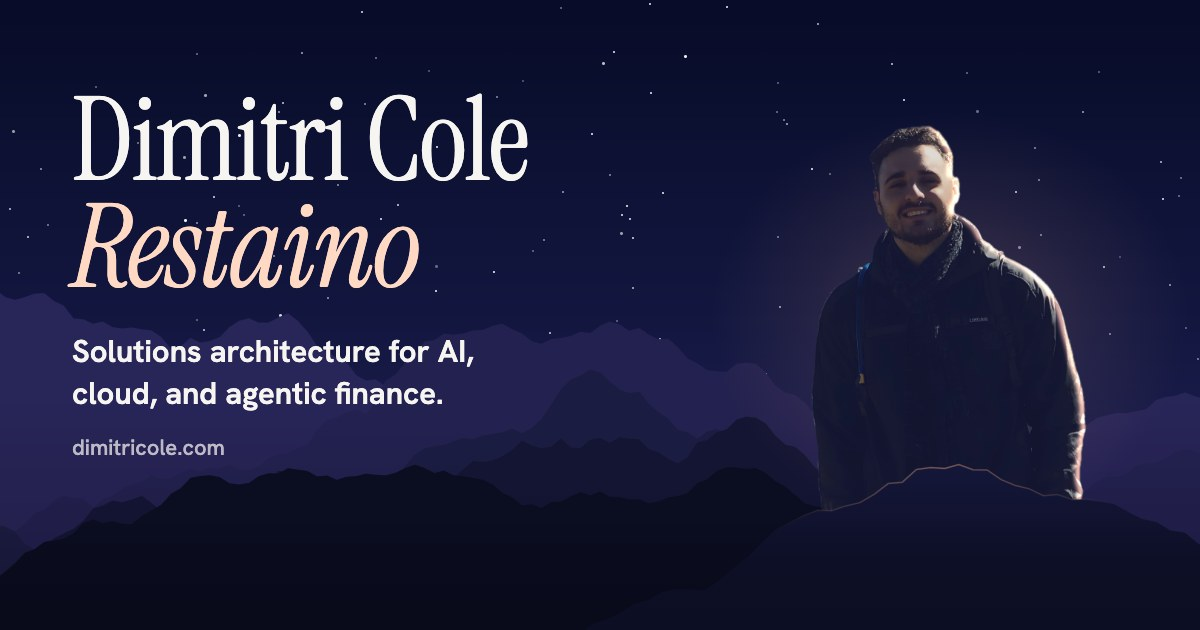
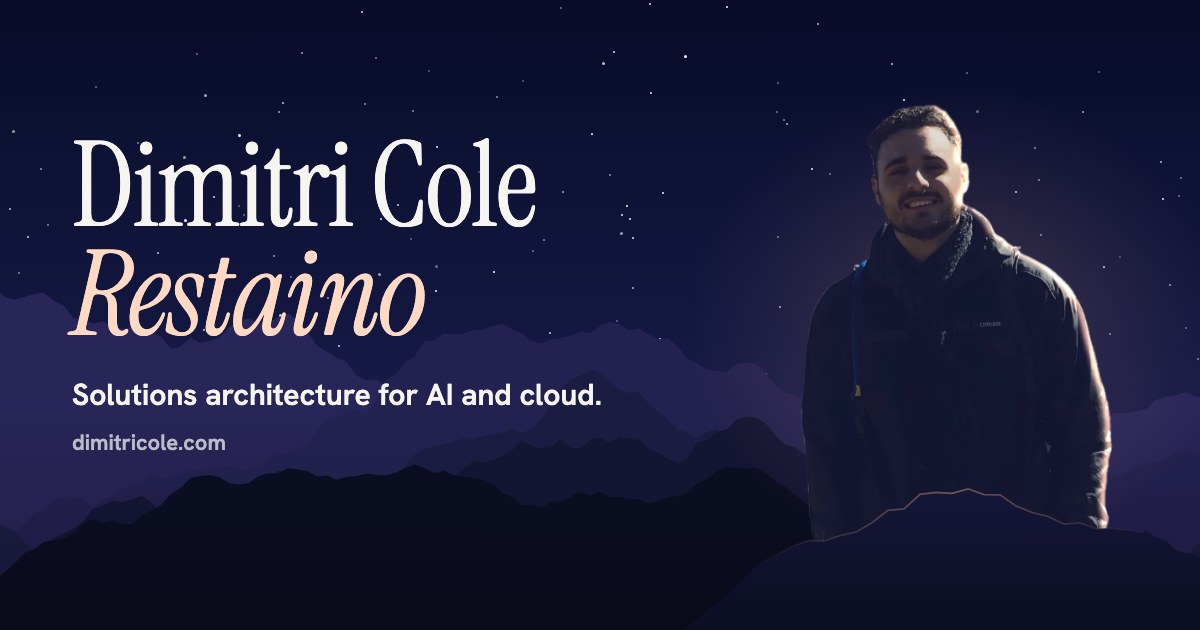
Lead with AI and cloud, and move the agent sketch into Ripple
The tagline is now "Solutions architecture for AI and cloud", and the
summit's three fields are solutions architecture, AI and cloud. The agent
sketch moves from the summit into the Ripple camp, and the Ripple, AWS,
skills and speaking lists put the AI and cloud work first. The share card
is remade with the new tagline. The guide follows: its tour, the answers
that pointed at the summit's sketch, and an "Any cloud work?" chip in
place of agentic finance. The hero gains a "Get in touch" button, and on
phones both buttons fit on one line so the photo stays above the dock.

Claude-Session: https://claude.ai/code/session_01Q1VdPJLvWN5t1BbNmWPfwr

diff --git a/assets/js/site.js b/assets/js/site.js
@@ -319,14 +319,14 @@
 	var mode = 'guide', collapsed = false, step = -1;
 
 	var TOUR = [
-		{ at: '#top', short: 'Welcome, traveler. Shall we descend together?', text: "Welcome, traveler. You stand at the summit of Dimitri's trail, where the work is solutions architecture for AI, cloud, and agentic finance. The path runs down through every camp from here. Shall we descend together?" },
-		{ at: '#summit', short: 'The summit: what Dimitri works on now.', text: 'The summit is what Dimitri works on now. Just below waits a small sketch: an agent reads a ledger, then asks before it moves any money.' },
-		{ at: '#camp3', short: 'Camp 3: Ripple, from Aug 2025 to now.', text: "Camp 3 is Ripple, since Aug 2025. Dimitri leads the North America Customer Solutions team as a player-coach, and builds a lot: an AI RFP workflow on Claude, the team's demo tools with Claude Code, and internal MCP servers for XRPL." },
+		{ at: '#top', short: 'Welcome, traveler. Shall we descend together?', text: "Welcome, traveler. You stand at the summit of Dimitri's trail, where the work is solutions architecture for AI and cloud. The path runs down through every camp from here. Shall we descend together?" },
+		{ at: '#summit', short: 'The summit: what Dimitri works on now.', text: 'The summit is what Dimitri works on now: solutions architecture, AI, and cloud.' },
+		{ at: '#camp3', short: 'Camp 3: Ripple, from Aug 2025 to now.', text: "Camp 3 is Ripple, since Aug 2025. Dimitri leads the North America Customer Solutions team as a player-coach, and builds a lot: an AI RFP workflow on Claude, the team's demo tools with Claude Code, and internal MCP servers for XRPL. Below that waits a small sketch: an agent reads a ledger, then asks before it moves any money." },
 		{ at: '#camp2', short: 'Camp 2: five years as an AWS Solutions Architect.', text: 'Camp 2 is five years at AWS as a Solutions Architect, advising ~20 enterprise accounts and getting into generative AI early, including the AWS architecture for an AI layer in a healthcare platform.' },
 		{ at: '#base', short: 'Camp 1: Travelers, 2016 to 2020, with Quinnipiac below.', text: 'Camp 1 is Travelers, 2016 to 2020, where Dimitri led seven developers plus an Accenture delivery team. Quinnipiac, 2010 to 2015, waits just below.' },
 		{ at: '#studio', short: 'The trailhead: Snowy Ghost, Dimitri\'s own company.', text: "Back at the trailhead: Snowy Ghost, the company Dimitri owns and runs alongside the day job. Glitch, its party game, is live on the App Store, and Ovenlight is coming soon." },
-		{ at: '#talks', short: 'Writing and talks.', text: 'Next, writing and talks, including an AWS post on generative AI workflows and three XRPL Apex talks.' },
-		{ at: '#skills', short: 'The skills Dimitri gathered along the way.', text: 'The skills Dimitri gathered along the way, from AWS architecture and Claude to MCP, Python, and XRPL.' },
+		{ at: '#talks', short: 'Writing and talks.', text: 'Next, writing and talks, including an AWS post on generative AI workflows and live demos at AWS re:Invent.' },
+		{ at: '#skills', short: 'The skills Dimitri gathered along the way.', text: 'The skills Dimitri gathered along the way, from AWS architecture and Claude to MCP and Python.' },
 		{ at: '#mountains', short: 'Where Dimitri goes when off the clock.', text: 'And this is where Dimitri spends time off the clock.' },
 		{ at: '#contact', short: 'End of the trail. Email or LinkedIn is fastest.', text: "That's the whole trail. To talk with Dimitri, email or LinkedIn is fastest. I'll be here if you have questions." }
 	];
@@ -517,8 +517,8 @@
 	var QA = [
 		{"id": "greeting", "q": "Hello", "keys": ["hello", "hey", "hi", "hiya", "howdy", "greetings", "good morning", "good afternoon", "good evening", "yo", "sup", "hola", "whats up", "anyone there", "anybody there", "what s up"], "a": "Welcome, traveler. I'm the guide on this trail, and every answer here was written in advance. Ask about Dimitri's work at Ripple or AWS, the architecture and AI projects, the talks, or the mountains.", "go": [["Start the descent", "#summit"]]},
 		{"id": "guide-ai", "q": "Are you an AI?", "keys": ["are you an ai", "this an ai", "it an ai", "u an ai", "or an ai", "with an ai", "by an ai", "there an ai", "from an ai", "are you ai", "u ai", "chatgpt", "chat gpt", "gpt", "openai", "llm powered", "bot", "robot", "chatbot", "who are you", "who is this", "real person", "scripted", "how does this work", "how do you work", "powered by", "language model", "are you claude", "is this claude", "is this ai", "guide", "sentient", "talking to a", "a bot", "this claude", "you claude", "this chat", "chat work", "are you human", "you human", "real human", "talking to a human", "typing", "someone typing", "is someone", "live person"], "a": "No AI model runs here. The guide is scripted: every answer was written in advance and matched to your question by keywords, and most answers link to the part of the page that covers them.", "go": [["See Dimitri's AI work", "#summit"]]},
-		{"id": "agent-demo", "q": "Is the agent demo real?", "keys": ["illustration", "sketch", "testnet", "test net", "treasury", "treasury wallet", "wallet", "trust line", "real ledger", "fake", "made-up", "made up", "mock", "simulated", "is it real", "is that real", "is this real", "animation", "chat window", "agent demo", "demo real", "is the demo real", "mainnet", "main net", "payment demo", "is it live", "live on"], "a": "The agent session at the summit is an illustration with made-up testnet data, not Dimitri's actual tools. Nothing in it touches a real ledger, and a person approves the payment before anything is signed.", "go": [["Show me the sketch", "#agents"]]},
-		{"id": "agentic", "q": "What's agentic finance?", "chip": 5, "keys": ["agentic", "agent", "agents", "mcp", "model context protocol", "mcp server", "on-chain", "onchain", "on chain", "execute transaction", "transactions", "agentic finance", "agentic payments", "ai agents", "autonomous", "mcp ", "model context protocol"], "a": "AI agents that can read a ledger and act on it. Dimitri builds internal MCP servers that let an agent research XRPL data and execute on-chain transactions. There's a short illustration at the summit, with made-up testnet data.", "go": [["Show me the sketch", "#agents"], ["Show me the summit", "#summit"]]},
+		{"id": "agent-demo", "q": "Is the agent demo real?", "keys": ["illustration", "sketch", "testnet", "test net", "treasury", "treasury wallet", "wallet", "trust line", "real ledger", "fake", "made-up", "made up", "mock", "simulated", "is it real", "is that real", "is this real", "animation", "chat window", "agent demo", "demo real", "is the demo real", "mainnet", "main net", "payment demo", "is it live", "live on"], "a": "The agent session in the Ripple camp is an illustration with made-up testnet data, not Dimitri's actual tools. Nothing in it touches a real ledger, and a person approves the payment before anything is signed.", "go": [["Show me the sketch", "#agents"]]},
+		{"id": "agentic", "q": "What's agentic finance?", "keys": ["agentic", "agent", "agents", "mcp", "model context protocol", "mcp server", "on-chain", "onchain", "on chain", "execute transaction", "transactions", "agentic finance", "agentic payments", "ai agents", "autonomous", "mcp ", "model context protocol"], "a": "AI agents that can read a ledger and act on it. Dimitri builds internal MCP servers that let an agent research XRPL data and execute on-chain transactions. There's a short illustration in the Ripple camp, with made-up testnet data.", "go": [["Show me the sketch", "#agents"], ["Show me Ripple", "#camp3"]]},
 		{"id": "feedback", "q": "Did Dimitri give feedback to AWS service teams?", "keys": ["feedback", "service team", "service teams", "product team", "product feedback", "features", "feature request", "roadmap", "influence", "influence claude", "feedback on claude"], "a": "At AWS, Dimitri fed customer and partner feedback to AWS service teams on 10+ features, Claude on Amazon Bedrock among them.", "go": [["Show me AWS", "#camp2"]]},
 		{"id": "claude", "q": "How does Dimitri use Claude?", "chip": 4, "keys": ["claude", "cluade", "anthropic", "anthropics", "antropic", "anthopic", "claude code", "claude api", "bedrock", "opus", "sonnet", "haiku", "claud "], "a": "Dimitri designed an AI RFP workflow with Claude on Amazon Bedrock and built the Ripple team's enablement stack with Claude Code, and this site was built with Claude Code too. At AWS, Dimitri fed customer and partner feedback to AWS service teams on 10+ features, Claude on Amazon Bedrock among them.", "go": [["Show me Ripple", "#camp3"], ["Show me AWS", "#camp2"]]},
 		{"id": "rfp", "q": "What is the AI RFP workflow?", "keys": ["rfp", "rfps", "request for proposal", "proposal", "proposals", "step functions", "step function", "stepfunctions", "workflow", "orchestrat", "questionnaire"], "a": "Dimitri designed an AI RFP workflow at Ripple with Claude on Amazon Bedrock and AWS Step Functions, used on 10+ RFPs. An eval harness scores every run against a principle-based rubric with golden answers built in, and a human review-and-fix loop follows.", "go": [["Show me Ripple", "#camp3"]]},
@@ -533,12 +533,12 @@
 		{"id": "fine-tuning", "q": "Has Dimitri worked on fine-tuning?", "keys": ["fine-tun", "fine tun", "finetun", "fine-tuning", "training data", "de-identified", "deidentified", "mental health", "therapy", "therapist", "companion", "custom model", "train a model", "trained a model", "model training", "mental", "training a model", "train a", "train an", "trained an"], "a": "At AWS, Dimitri architected and scoped LLM fine-tuning on de-identified data for a mental health platform, ahead of the launch of its AI mental health companion.", "go": [["Show me AWS", "#camp2"]]},
 		{"id": "hackathon", "q": "Has Dimitri won a hackathon?", "keys": ["hackathon", "hackathons", "hack-a-thon", "hackaton", "ai heroes", "heroes", "won", "win", "winner", "first place", "award", "awards", "prize", "competition", "inbox", "innovation club"], "a": "Dimitri placed first in AWS's Industries AI Heroes hackathon, representing Healthcare and Life Sciences, with a physician-inbox organizer and a doctor-facing chatbot. At Travelers, Dimitri organized an innovation club, developer workshops, and hackathons reaching 1,000+ participants.", "go": [["Show me AWS", "#camp2"], ["Show me Travelers", "#base"]]},
 		{"id": "workshops", "q": "Does Dimitri teach or run workshops?", "keys": ["workshop", "workshops", "teach", "teaching", "developer advocacy", "devrel", "dev rel", "developer relations", "advocate", "reference implementation", "mentoring", "instruct", "classes"], "a": "Dimitri delivered 40+ developer workshops, 100+ customer demos, and reference implementations at AWS, and at Ripple runs AI training for 20+ reps. Teaching developers goes back to the Travelers days, with workshops and hackathons reaching 1,000+ participants.", "go": [["Show me AWS", "#camp2"], ["Show me the talks", "#talks"]]},
-		{"id": "migrations", "q": "What migrations has Dimitri worked on?", "keys": ["migration", "migrat", "modernization", "moderniz", "legacy", "lift and shift", "move to the cloud", "cloud migration", "event-driven", "event driven"], "a": "At AWS, Dimitri advised ~20 enterprise accounts in financial services and healthcare and drove 30+ migrations, several with SI partner Caylent. Earlier, at Travelers, Dimitri led a team migrating legacy financial systems to API and event-driven architectures.", "go": [["Show me AWS", "#camp2"], ["Show me Travelers", "#base"]]},
+		{"id": "migrations", "q": "What migrations has Dimitri worked on?", "chip": 5, "chipText": "Any cloud work?", "keys": ["migration", "migrat", "modernization", "moderniz", "legacy", "lift and shift", "move to the cloud", "cloud migration", "event-driven", "event driven"], "a": "At AWS, Dimitri advised ~20 enterprise accounts in financial services and healthcare and drove 30+ migrations, several with SI partner Caylent. Earlier, at Travelers, Dimitri led a team migrating legacy financial systems to API and event-driven architectures.", "go": [["Show me AWS", "#camp2"], ["Show me Travelers", "#base"]]},
 		{"id": "ripple", "q": "What does Dimitri do at Ripple?", "keys": ["ripple", "ripples", "rippel", "customer solutions", "north america", "pre-sales", "presales", "pre sales", "sales engineer", "do sales", "in sales", "sales role"], "a": "Since Aug 2025, Dimitri has been a Customer Solutions Director at Ripple, leading the North America Customer Solutions team as a player-coach and advising 20+ banks on digital-asset strategy, custody, and key management. Dimitri also builds much of what the team demos and teaches with.", "go": [["Show me Ripple", "#camp3"]]},
 		{"id": "aws", "q": "What did Dimitri do at AWS?", "keys": ["aws", "amazon", "amazon web services", "solutions architect", "solution architect", "senior sa", "sa", "enterprise accounts", "financial services", "cloud", "at aws", "at amazon", "aws experience"], "a": "Five years at AWS, Sep 2020 to Aug 2025, most recently as a Senior Solutions Architect in New York. Dimitri advised ~20 enterprise accounts in financial services and healthcare, drove 30+ migrations, and was pulled into generative AI early by enterprise accounts and ISV partners.", "go": [["Show me AWS", "#camp2"]]},
 		{"id": "travelers", "q": "What did Dimitri do at Travelers?", "keys": ["travelers", "travellers", "traveler", "insurance", "hartford", "connecticut", "accenture", "tech lead", "first job", "early career", "before aws"], "a": "Travelers, Feb 2016 to Aug 2020, as a Tech Lead and Developer in Hartford, CT. Dimitri led seven developers plus an Accenture delivery team migrating legacy financial systems to API and event-driven architectures, including a partner-integration platform handling ~70% of transaction volume.", "go": [["Show me Travelers", "#base"]]},
 		{"id": "education", "q": "Where did Dimitri study?", "keys": ["study", "studied", "school", "college", "university", "universities", "mba", "degree", "degrees", "education", "educated", "graduate", "grad", "quinnipiac", "quinnipac", "quinipiac", "bachelor", "major", "entrepreneurship", "abroad", "masters", "master s"], "a": "Quinnipiac University, 2015: an MBA and a BS in Entrepreneurship and Small Business Management, through a competitively selected 4+1 BS+MBA program, with international coursework in France, Hungary, Italy, and Switzerland.", "go": [["Show me education", "#quinnipiac"]]},
-		{"id": "talks", "q": "Has Dimitri given talks?", "chip": 7, "chipText": "Any talks or writing?", "keys": ["talk", "talks", "speak", "speaker", "speaking", "spoke", "conference", "conferences", "keynote", "presentation", "podcast", "podcasts", "youtube", "you tube", "video", "videos", "watch", "apex", "reinvent", "re invent", "builders fair", "global summit", "block stars", "blockstars", "panel", "david schwartz", "schwartz", "events", "xrpl apex"], "a": "Dimitri spoke at XRPL Apex in 2023, 2024, and 2025, all on YouTube, and at the InterSystems Global Summit from 2022 to 2025, and gave live demos at the AWS re:Invent Builders Fair in 2021 and 2022. There's also the Block Stars podcast with David Schwartz, Ripple's CTO Emeritus. On the writing side, there are three AWS blog posts from 2024, including one on orchestrating generative AI workflows with Amazon Bedrock and AWS Step Functions.", "go": [["Show me the talks", "#talks"]]},
+		{"id": "talks", "q": "Has Dimitri given talks?", "chip": 7, "chipText": "Any talks or writing?", "keys": ["talk", "talks", "speak", "speaker", "speaking", "spoke", "conference", "conferences", "keynote", "presentation", "podcast", "podcasts", "youtube", "you tube", "video", "videos", "watch", "apex", "reinvent", "re invent", "builders fair", "global summit", "block stars", "blockstars", "panel", "david schwartz", "schwartz", "events", "xrpl apex"], "a": "Dimitri gave live demos at the AWS re:Invent Builders Fair in 2021 and 2022, spoke at the InterSystems Global Summit from 2022 to 2025. Dimitri's XRPL Apex talks from 2023, 2024, and 2025 are on YouTube. There's also the Block Stars podcast with David Schwartz, Ripple's CTO Emeritus. On the writing side, there are three AWS blog posts from 2024, including one on orchestrating generative AI workflows with Amazon Bedrock and AWS Step Functions.", "go": [["Show me the talks", "#talks"]]},
 		{"id": "writing", "q": "Has Dimitri published anything?", "keys": ["publish", "publication", "blog", "blogs", "article", "articles", "writing", "written", "write", "wrote", "author", "authored", "post", "posts", "paper", "papers", "content", "reading", "something to read"], "a": "Three posts on AWS blogs in 2024: orchestrating generative AI workflows with Amazon Bedrock and AWS Step Functions (Machine Learning Blog), InterSystems IRIS Cloud SQL and IntegratedML (Partner Network Blog), and application-consistent Amazon EBS Snapshots for InterSystems IRIS (Storage Blog).", "go": [["Show me the writing", "#talks"]]},
 		{"id": "certs", "q": "What certifications does Dimitri hold?", "keys": ["certif", "certs", "cert", "certificate", "credential", "credentials", "professional", "scrum", "safe", "agile", "sa pro", "exam"], "a": "AWS Solutions Architect - Professional, and SAFe 4.0 Certified Scrum Master.", "go": [["Show me the skills", "#skills"]]},
 		{"id": "languages", "q": "What languages and stack does Dimitri use?", "keys": ["stack", "serverless", "tech stack", "programming", "program", "coding", "code", "coder", "language", "languages", "python", "javascript", "typescript", "java", "react", "nodejs", "csharp", "api", "apis", "webhook", "websocket", "sdk", "sdks", "hands-on", "hands on", "technical", "engineer", "c", "c sharp", "rest api", "node js"], "a": "Dimitri works in JavaScript and TypeScript (React, Node.js), Python, and C#, with REST APIs, webhooks, WebSockets, and SDKs, and architects on AWS with Step Functions, serverless, and event-driven designs.", "go": [["Show me the skills", "#skills"]]},
@@ -558,7 +558,7 @@
 		{"id": "architecture", "q": "What architecture work has Dimitri done?", "chip": 2, "keys": ["architect", "ai architect ", "ai solutions architect", "enterprise architecture", "solution architecture", "solutions architecture", "system design", "systems design", "reference architecture", "cloud architecture"], "a": "Dimitri has worked in solutions architecture since 2020. At AWS, Dimitri advised ~20 enterprise accounts in financial services and healthcare, drove 30+ migrations, and designed the AWS architecture for the multi-provider AI layer in InterSystems' IntelliCare. At Ripple, Dimitri leads a team of pre-sales Solutions Architects as a player-coach, advising 20+ banks.", "go": [["Show me AWS", "#camp2"], ["Show me Ripple", "#camp3"]]},
 		{"id": "ai", "q": "What AI work has Dimitri done?", "chip": 3, "keys": ["ai", "ai architecture", "he an ai", "dimitri an ai", "artificial intelligence", "genai", "gen ai", "generative", "llm", "llms", "large language", "machine learning", "ml", "models", "prompt", "rag", "nlp", "ai experience", "ai work", "a i", "llm experience", "llm work", "ai background", "with ai", "in ai", "about ai", "ai projects", "ai stuff", "use ai", "experience with ai", "ai systems", "kind of ai", "ai has", "ai built", "ai did"], "a": "At Ripple, Dimitri designed an AI RFP workflow with Claude on Amazon Bedrock, with an eval harness that scores every run, and built the team's demo tools with Claude Code. At AWS, Dimitri designed the AWS architecture for a multi-provider AI layer in a healthcare platform and scoped LLM fine-tuning for a mental health platform.", "go": [["Show me the summit", "#summit"], ["Show me AWS", "#camp2"]]},
 		{"id": "skills", "q": "What are Dimitri's skills?", "keys": ["skill", "skills", "focus", "main focus", "ai or blockchain", "blockchain or ai", "or blockchain", "blockchain or", "ai or crypto", "crypto or ai", "or crypto", "crypto or", "more ai or", "more blockchain", "skillset", "skill set", "strength", "expertise", "good at", "specialt", "specializ", "capabilit", "competenc", "tools", "toolkit"], "a": "Solutions and enterprise architecture, AWS, AI and LLMs (the Claude API, Claude Code, Claude on Amazon Bedrock, agentic workflows, MCP, evals, fine-tuning), pre-sales and enablement, programming in TypeScript, Python, and C#, and digital assets and agentic finance (XRPL, Ethereum, stablecoins, custody).", "go": [["Show me the skills", "#skills"]]},
-		{"id": "current-role", "q": "What does Dimitri do now?", "chip": 1, "keys": ["current", "currently", "right now", "these days", "nowadays", "do now", "doing now", "job", "role", "title", "position", "do you do", "do u do", "does he do", "does dimitri do", "who is dimitri", "whos dimitri", "about dimitri", "about yourself", "about you", "introduce", "director", "occupation", "profession", "work now", "work on now", "works on now", "focused on", "working on", "who s dimitri", "for a living", "up to", "lately", "where does dimitri work", "where do you work", "where does he work", "where do u work", "work at", "does he work for", "dimitri work for", "now"], "a": "Dimitri is a Customer Solutions Director at Ripple in New York, leading the North America team of pre-sales Solutions Architects as a player-coach and advising 20+ banks on digital-asset custody and key management. Before that, Dimitri spent five years at AWS, most recently as a Senior Solutions Architect.", "go": [["Take me to Ripple", "#camp3"], ["What Dimitri works on now", "#summit"]]},
+		{"id": "current-role", "q": "What does Dimitri do now?", "chip": 1, "keys": ["current", "currently", "right now", "these days", "nowadays", "do now", "doing now", "job", "role", "title", "position", "do you do", "do u do", "does he do", "does dimitri do", "who is dimitri", "whos dimitri", "about dimitri", "about yourself", "about you", "introduce", "director", "occupation", "profession", "work now", "work on now", "works on now", "focused on", "working on", "who s dimitri", "for a living", "up to", "lately", "where does dimitri work", "where do you work", "where does he work", "where do u work", "work at", "does he work for", "dimitri work for", "now"], "a": "Dimitri is a Customer Solutions Director at Ripple in New York, leading the North America team of pre-sales Solutions Architects as a player-coach and advising 20+ global and regional banks. Before that, Dimitri spent five years at AWS, most recently as a Senior Solutions Architect.", "go": [["Take me to Ripple", "#camp3"], ["What Dimitri works on now", "#summit"]]},
 		{"id": "career", "q": "Where has Dimitri worked?", "chip": 6, "keys": ["worked", "work history", "career", "background", "companies", "employers", "employment", "previous jobs", "past jobs", "how many years", "years of experience", "timeline", "journey", "path", "overview", "work experience", "your experience", "professional experience", "prior experience", "past experience"], "a": "Ripple since Aug 2025, AWS from Sep 2020 to Aug 2025, and Travelers from Feb 2016 to Aug 2020, after an MBA and BS at Quinnipiac University.", "go": [["Start with Ripple", "#camp3"]]},
 		{"id": "thanks", "q": "Thanks!", "keys": ["thanks", "thank you", "thank u", "thx", "ty", "appreciate", "bye", "goodbye", "good bye", "see ya", "see you", "cheers", "great", "awesome", "nice", "ok", "okay"], "a": "Safe travels. If you'd like to talk with Dimitri, the email and LinkedIn links are at the bottom of the page.", "go": [["Get in touch", "#contact"]]},
 		{"id": "studio", "q": "What is Snowy Ghost?", "keys": ["snowy ghost", "snowy ghost", "snowyghost", "ghost", "ovenlight", "ovenlight", "ovenlight", "ovenlight", "ovenlight", "oven light", " glitch ", " glitch ", " glitch ", "dimm", "whengo", "whengo", "own company", "dimitri s company", "run a company", "own a company", "have a company", "has a company", "run a business", "own a business", "have a business", "has a business", "own business", "own apps", "apps does dimitri make", "apps does dimitri build", "apps does dimitri have", "apps does he make", "apps does he have", "apps do you make", "games has he made", "dimitris apps", "dimitris company", "start a company", "started a company", "business owner", "company does dimitri own", "company does he own", "dimitri s apps", "his apps", "make apps", "ios apps", "iphone apps", "apps has dimitri", "side project", "side business", "side hustle", "dimitri a founder", "he a founder", "you a founder", "co-founder", "have a startup", "has a startup", "found a startup", "startup founder", "his startup", "dimitri s startup", "founded a company", "his company", "company called", "side projects", "make a game", "made a game", "build a game", "built a game", "entrepreneur ", "app store", "games has dimitri", "games does dimitri", "dimitri s games", "make games", "made games", "party game", "llc"], "a": "Snowy Ghost is the company Dimitri owns and runs in New York, alongside Dimitri's day job. Dimitri designs and builds its apps. Ovenlight opens your own web apps on your iPhone behind Face ID and is coming soon to the App Store. Glitch, a hidden-role party game, is live there now. Dimm and Whengo are in development.", "go": [["Show me Snowy Ghost", "#studio"]]}

diff --git a/index.html b/index.html
@@ -5,22 +5,22 @@
 	<meta charset="utf-8" />
 	<meta name="viewport" content="width=device-width, initial-scale=1, viewport-fit=cover" />
 	<title>Dimitri Cole Restaino</title>
-	<meta name="description" content="Dimitri Cole Restaino works on solutions architecture for AI, cloud, and agentic finance. Customer Solutions Director at Ripple, five years at AWS as a Solutions Architect, building with Claude." />
+	<meta name="description" content="Dimitri Cole Restaino works on solutions architecture for AI and cloud. Customer Solutions Director at Ripple, five years at AWS as a Solutions Architect, building with Claude." />
 	<meta name="theme-color" content="#0b1030" />
 	<meta property="og:title" content="Dimitri Cole Restaino" />
-	<meta property="og:description" content="Solutions architecture for AI, cloud, and agentic finance. Customer Solutions Director at Ripple, five years at AWS, building with Claude." />
+	<meta property="og:description" content="Solutions architecture for AI and cloud. Customer Solutions Director at Ripple, five years at AWS, building with Claude." />
 	<meta property="og:url" content="https://www.dimitricole.com/" />
-	<meta property="og:image" content="https://www.dimitricole.com/images/og-card.jpg?v=2" />
+	<meta property="og:image" content="https://www.dimitricole.com/images/og-card.jpg?v=3" />
 	<meta name="twitter:card" content="summary_large_image">
 	<meta name="twitter:title" content="Dimitri Cole Restaino">
-	<meta name="twitter:description" content="Solutions architecture for AI, cloud, and agentic finance. Customer Solutions Director at Ripple, five years at AWS, building with Claude.">
-	<meta name="twitter:image" content="https://www.dimitricole.com/images/og-card.jpg?v=2">
+	<meta name="twitter:description" content="Solutions architecture for AI and cloud. Customer Solutions Director at Ripple, five years at AWS, building with Claude.">
+	<meta name="twitter:image" content="https://www.dimitricole.com/images/og-card.jpg?v=3">
 	<link rel="icon" href="images/mountain.png">
 	<link rel="preconnect" href="https://fonts.googleapis.com">
 	<link rel="preconnect" href="https://fonts.gstatic.com" crossorigin>
 	<link rel="stylesheet" href="https://fonts.googleapis.com/css2?family=Hanken+Grotesk:wght@400;500;600;700&family=Instrument+Serif:ital@0;1&family=JetBrains+Mono:wght@400;500&display=swap">
 	<link rel="stylesheet" href="assets/css/fontawesome-all.min.css" />
-	<link rel="stylesheet" href="assets/css/site.css?v=6" />
+	<link rel="stylesheet" href="assets/css/site.css?v=7" />
 	<script>document.documentElement.classList.add('js');</script>
 </head>
 
@@ -57,12 +57,13 @@
 		<section class="leg hero" id="top">
 			<div class="hero-copy">
 				<h1>Dimitri Cole <em>Restaino</em></h1>
-				<p class="hero-line">Solutions architecture for AI, cloud, and agentic finance.</p>
+				<p class="hero-line">Solutions architecture for AI and cloud.</p>
 				<p class="hero-lede">I spent five years at AWS, most recently as a Senior Solutions Architect, and I'm now a Customer Solutions Director at Ripple, leading our North America pre-sales architects. I also run <a href="https://snowyghost.com" target="_blank" rel="noopener">Snowy Ghost<span class="visually-hidden"> (opens in a new tab)</span></a>, my own company, where I build iPhone apps.</p>
 				<div class="hero-actions">
 					<a class="cta" href="#summit">Start the descent
 						<svg width="14" height="14" viewBox="0 0 14 14" aria-hidden="true"><path d="M7 1v11M2 7l5 5 5-5" fill="none" stroke="currentColor" stroke-width="2" /></svg>
 					</a>
+					<a class="cta cta-ghost" href="#contact">Get in touch</a>
 				</div>
 			</div>
 			<figure class="peak">
@@ -87,18 +88,34 @@
 				<div class="fields">
 					<article class="field">
 						<h3>Solutions architecture</h3>
-						<p>At Ripple I lead a team of pre-sales Solutions Architects as a player-coach, advising 20+ global and regional banks on digital-asset custody and key management. Before that, at AWS, I advised ~20 enterprise accounts in financial services and healthcare, and drove 30+ cloud migrations.</p>
+						<p>At Ripple I lead our North America pre-sales Solutions Architects as a player-coach and carry my own accounts, advising 20+ global and regional banks. At AWS I advised ~20 enterprise accounts in financial services and healthcare, and delivered 40+ developer workshops and 100+ customer demos.</p>
 					</article>
 					<article class="field">
 						<h3>AI</h3>
 						<p>I've designed AI systems at Ripple and AWS: an RFP workflow on Claude with an eval harness behind it, and the AWS architecture for a multi-provider AI layer in a healthcare platform. At Snowy Ghost, I build apps like <a href="https://ovenlight.app" target="_blank" rel="noopener">Ovenlight<span class="visually-hidden"> (opens in a new tab)</span></a>, which lets a coding agent put the web app it built on your iPhone.</p>
 					</article>
 					<article class="field field-join">
-						<h3>Agentic finance</h3>
-						<p>AI agents that can read a ledger and act on it. I build internal MCP servers that let an agent research XRP Ledger (XRPL) data and execute on-chain transactions.</p>
+						<h3>Cloud</h3>
+						<p>Five years at AWS, designing serverless and event-driven architectures and driving 30+ migrations, several with SI partner Caylent. I still build on AWS: the RFP workflow runs on Amazon Bedrock and AWS Step Functions.</p>
 					</article>
 				</div>
+			</div>
+		</section>
 
+		<section class="leg" id="camp3">
+			<div class="panel panel-wide">
+				<p class="camp-tag"><b>Camp 3</b> 2025 - now</p>
+				<h2>Ripple</h2>
+				<p class="role">Customer Solutions Director<br>New York, NY, Aug 2025 - present</p>
+				<p class="lede">I lead our North America Customer Solutions team and build much of what we demo and teach with.</p>
+				<ul>
+					<li>Lead the Customer Solutions team (pre-sales Solutions Architects) as a player-coach, carrying my own accounts and advising 20+ banks, from G-SIBs to regionals, on digital-asset strategy, custody, and key management.</li>
+					<li>Designed an AI RFP workflow with Claude on Amazon Bedrock and AWS Step Functions, used on 10+ RFPs. An eval harness scores every run against a principle-based rubric with golden answers built in, and a human review-and-fix loop follows.</li>
+					<li>Serve as an org AI lead for sales, running AI training for 20+ reps and building internal AI tooling.</li>
+					<li>Built the team's enablement stack with Claude Code: Solutions Exchange, an Okta-integrated portal for sharing and deploying demos, plus interactive Ripple Custody and Ripple Payments tutorials that cut meeting prep from days to hours.</li>
+					<li>Built MCP servers for internal XRPL data research and on-chain transaction execution.</li>
+					<li>Built a stablecoin and tokenized-deposit engine on Ethereum and XRPL with an iOS custody front end, and used it as the closing demo in an onsite session for a global bank's engineering leadership.</li>
+				</ul>
 				<div class="agents" id="agents">
 					<div class="agents-copy">
 						<h3>What agentic finance looks like</h3>
@@ -124,23 +141,6 @@
 			</div>
 		</section>
 
-		<section class="leg" id="camp3">
-			<div class="panel">
-				<p class="camp-tag"><b>Camp 3</b> 2025 - now</p>
-				<h2>Ripple</h2>
-				<p class="role">Customer Solutions Director<br>New York, NY, Aug 2025 - present</p>
-				<p class="lede">I lead our North America Customer Solutions team and build much of what we demo and teach with.</p>
-				<ul>
-					<li>Lead the Customer Solutions team (pre-sales Solutions Architects) as a player-coach, carrying my own accounts and advising 20+ banks, from G-SIBs to regionals, on digital-asset strategy, custody, and key management.</li>
-					<li>Designed an AI RFP workflow with Claude on Amazon Bedrock and AWS Step Functions, used on 10+ RFPs. An eval harness scores every run against a principle-based rubric with golden answers built in, and a human review-and-fix loop follows.</li>
-					<li>Built the team's enablement stack with Claude Code: Solutions Exchange, an Okta-integrated portal for sharing and deploying demos, plus interactive Ripple Custody and Ripple Payments tutorials that cut meeting prep from days to hours.</li>
-					<li>Built MCP servers for internal XRPL data research and on-chain transaction execution.</li>
-					<li>Serve as an org AI lead for sales, running AI training for 20+ reps and building internal AI tooling.</li>
-					<li>Built a stablecoin and tokenized-deposit engine on Ethereum and XRPL with an iOS custody front end, and used it as the closing demo in an onsite session for a global bank's engineering leadership.</li>
-				</ul>
-			</div>
-		</section>
-
 		<section class="leg" id="camp2">
 			<div class="panel">
 				<p class="camp-tag"><b>Camp 2</b> 2020 - 2025</p>
@@ -151,10 +151,10 @@
 					<li>Advised ~20 enterprise accounts in financial services and healthcare, driving 30+ migrations, several with SI partner Caylent, and helped secure a multi-year partnership with a blockchain ISV.</li>
 					<li>Designed the AWS architecture for the multi-provider AI layer in ISV partner InterSystems' IntelliCare, the first AI-native EHR to earn EU MDR Class IIa certification, and co-designed how its models were scored by clinical task.</li>
 					<li>Architected and scoped LLM fine-tuning on de-identified data for a mental health platform, ahead of the launch of its AI mental health companion.</li>
-					<li>Built <a class="inline-video" href="https://www.youtube.com/watch?v=R8cc6_4WKvw" target="_blank" rel="noopener">agentic AI POCs that query multi-network ledger data<span class="fab fa-youtube" aria-hidden="true"></span><span class="visually-hidden"> (video)</span></a> and <a class="inline-video" href="https://www.youtube.com/watch?v=zZS4NHxDjjw" target="_blank" rel="noopener">private XRPL node infrastructure<span class="fab fa-youtube" aria-hidden="true"></span><span class="visually-hidden"> (video)</span></a>.</li>
 					<li>Delivered 40+ developer workshops, 100+ customer demos, and reference implementations, and mentored Solutions Architects and Technical Account Managers.</li>
 					<li>Placed first in AWS's Industries AI Heroes hackathon, representing Healthcare and Life Sciences, with a physician-inbox organizer and a doctor-facing chatbot.</li>
 					<li>Fed customer and partner feedback to AWS service teams on 10+ features, Claude on Amazon Bedrock among them.</li>
+					<li>Built <a class="inline-video" href="https://www.youtube.com/watch?v=R8cc6_4WKvw" target="_blank" rel="noopener">agentic AI POCs that query multi-network ledger data<span class="fab fa-youtube" aria-hidden="true"></span><span class="visually-hidden"> (video)</span></a> and <a class="inline-video" href="https://www.youtube.com/watch?v=zZS4NHxDjjw" target="_blank" rel="noopener">private XRPL node infrastructure<span class="fab fa-youtube" aria-hidden="true"></span><span class="visually-hidden"> (video)</span></a>.</li>
 				</ul>
 			</div>
 		</section>
@@ -251,12 +251,12 @@
 						<div>
 							<h3 class="col-title">Speaking</h3>
 							<ul class="links">
+								<li class="plain"><span class="lr-icon fas fa-microphone" aria-hidden="true"></span><span class="lr-body"><strong>AWS re:Invent Builders Fair</strong><span>Live demos, 2021 and 2022</span></span></li>
+								<li class="plain"><span class="lr-icon fas fa-microphone" aria-hidden="true"></span><span class="lr-body"><strong>InterSystems Global Summit</strong><span>Speaker, 2022 - 2025</span></span></li>
 								<li><a class="link-row" href="https://www.youtube.com/watch?v=R8cc6_4WKvw" target="_blank" rel="noopener"><span class="lr-icon fab fa-youtube" aria-hidden="true"></span><span class="lr-body"><strong>XRPL Apex 2025</strong><span>AI and blockchain, on YouTube</span></span><span class="lr-cta">Watch<span class="fas fa-external-link-alt lr-ext" aria-hidden="true"></span><span class="visually-hidden"> (opens in a new tab)</span></span></a></li>
 								<li><a class="link-row" href="https://www.youtube.com/watch?v=nXY888BiEW0" target="_blank" rel="noopener"><span class="lr-icon fab fa-youtube" aria-hidden="true"></span><span class="lr-body"><strong>XRPL Apex 2024</strong><span>AI and blockchain, on YouTube</span></span><span class="lr-cta">Watch<span class="fas fa-external-link-alt lr-ext" aria-hidden="true"></span><span class="visually-hidden"> (opens in a new tab)</span></span></a></li>
 								<li><a class="link-row" href="https://www.youtube.com/watch?v=2m6ikbzef_4" target="_blank" rel="noopener"><span class="lr-icon fab fa-youtube" aria-hidden="true"></span><span class="lr-body"><strong>XRPL Apex 2023</strong><span>XRPL development on AWS, on YouTube</span></span><span class="lr-cta">Watch<span class="fas fa-external-link-alt lr-ext" aria-hidden="true"></span><span class="visually-hidden"> (opens in a new tab)</span></span></a></li>
 								<li><a class="link-row" href="https://www.youtube.com/watch?v=zu2UvS9TCMI" target="_blank" rel="noopener"><span class="lr-icon fab fa-youtube" aria-hidden="true"></span><span class="lr-body"><strong>Block Stars podcast</strong><span>With David Schwartz, Ripple's CTO Emeritus, on YouTube</span></span><span class="lr-cta">Watch<span class="fas fa-external-link-alt lr-ext" aria-hidden="true"></span><span class="visually-hidden"> (opens in a new tab)</span></span></a></li>
-								<li class="plain"><span class="lr-icon fas fa-microphone" aria-hidden="true"></span><span class="lr-body"><strong>InterSystems Global Summit</strong><span>Speaker, 2022 - 2025</span></span></li>
-								<li class="plain"><span class="lr-icon fas fa-microphone" aria-hidden="true"></span><span class="lr-body"><strong>AWS re:Invent Builders Fair</strong><span>Live demos, 2021 and 2022</span></span></li>
 							</ul>
 						</div>
 					</div>
@@ -288,14 +288,14 @@
 							<p>JavaScript and TypeScript (React, Node.js), Python, C#, REST APIs, webhooks, WebSockets, and SDKs.</p>
 						</article>
 						<article class="tile">
-							<span class="fas fa-landmark" aria-hidden="true"></span>
-							<h3>Digital assets and agentic finance</h3>
-							<p>XRPL, Ethereum, tokenization, stablecoins and tokenized deposits, custody, key management, institutional DeFi, and payments.</p>
-						</article>
-						<article class="tile">
 							<span class="fas fa-certificate" aria-hidden="true"></span>
 							<h3>Certifications</h3>
 							<p>AWS Solutions Architect - Professional, and SAFe 4.0 Certified Scrum Master.</p>
+						</article>
+						<article class="tile">
+							<span class="fas fa-landmark" aria-hidden="true"></span>
+							<h3>Digital assets and agentic finance</h3>
+							<p>XRPL, Ethereum, tokenization, stablecoins and tokenized deposits, custody, key management, institutional DeFi, and payments.</p>
 						</article>
 					</div>
 				</div>
@@ -428,7 +428,7 @@
 		<button class="lb-btn lb-close" id="lb-close" type="button" aria-label="Close"><span class="fas fa-times" aria-hidden="true"></span></button>
 	</dialog>
 
-	<script src="assets/js/site.js?v=6" defer></script>
+	<script src="assets/js/site.js?v=7" defer></script>
 </body>
 
 </html>

diff --git a/assets/css/site.css b/assets/css/site.css
@@ -711,6 +711,12 @@ main { padding-bottom: var(--dock); }
 	.console-tabs button { padding: 0 9px; font-size: 0.84rem; }
 	.msg { max-width: 94%; }
 	.lb-prev, .lb-next { top: auto; bottom: 16px; transform: none; }
+	/* Both hero buttons on one line, so the photo stays above the dock */
+	.hero-actions { gap: 8px; }
+	.cta { gap: 10px; padding: 0 18px; }
+}
+@media (max-width: 400px) {
+	.cta { padding: 0 15px; font-size: 0.94rem; }
 }
 
 @media (prefers-reduced-motion: reduce) {
